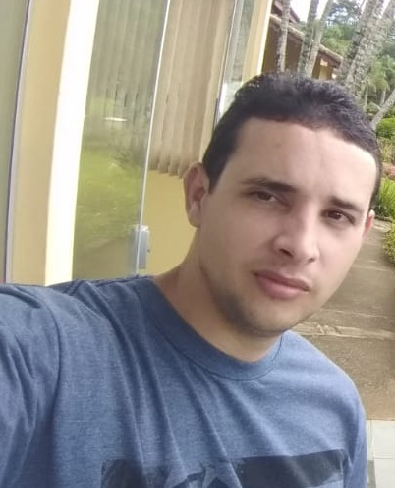
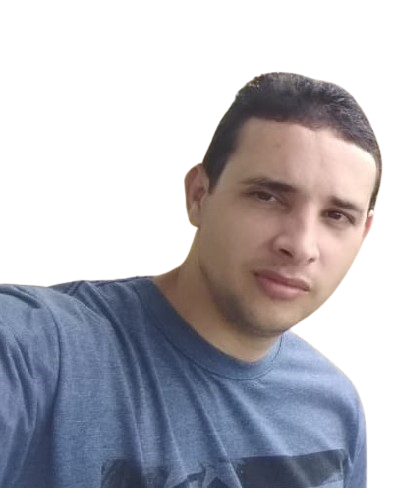
colocando fotos

diff --git a/index.html b/index.html
@@ -4,6 +4,23 @@
     <meta charset="UTF-8">
     <meta name="viewport" content="width=device-width, initial-scale=1.0">
     <title>Raylanderson Andrade</title>
+
+    <link
+    rel="stylesheet"
+    href="https://cdnjs.cloudflare.com/ajax/libs/font-awesome/5.15.4/css/all.min.css"
+    />
+
+    <link
+    rel="stylesheet"
+    href="https://cdn.jsdelivr.net/gh/devicons/devicon@v2.14.0/devicon.min.css"
+    />
+
+    <link rel="preconnect" href="https://fonts.googleapis.com" />
+    <link rel="preconnect" href="https://fonts.gstatic.com" crossorigin />
+    <link
+    href="https://fonts.googleapis.com/css2?family=Poppins:ital,wght@0,100;0,200;0,300;0,400;0,500;0,600;0,700;0,800;0,900;1,100;1,200;1,300;1,400;1,500;1,600;1,700;1,800;1,900&family=Raleway:ital,wght@0,100..900;1,100..900&display=swap"
+    rel="stylesheet"
+    />
 </head>
 <body>
     <header class="cabecalho">
@@ -34,7 +51,31 @@
                         <i class="fab fa-linkedin-in"></i>
                     </a>
                 </li>
+
+                <li>
+                    <a href="https://wa.me/5535777777777" title="Ir para o WhatsApp" target="_blank">
+                        <i class="fab fa-whatsapp"></i>
+                    </a>
+                </li>
+
+                <li>
+                    <a href="https://github.com/raylanderson" title="Ir para o github" target="_blank">
+                        <i class="fab fa-github"></i>
+                    </a>
+                </li>
+
+                <li>
+                    <a href="#" title="Ir para o Instagram" target="_blank">
+                        <i class="fab fa-instagram"></i>
+                    </a>
+                </li>
             </ul>
+        </div>
+
+        <div class="container-foto">
+            <div class="foto sombra-interna">
+                <img src="./src/imagens/foto-perfil.png" alt="Minha foto">
+            </div>
         </div>
     </section>
     <section class="projetos" id="projetos"></section>
